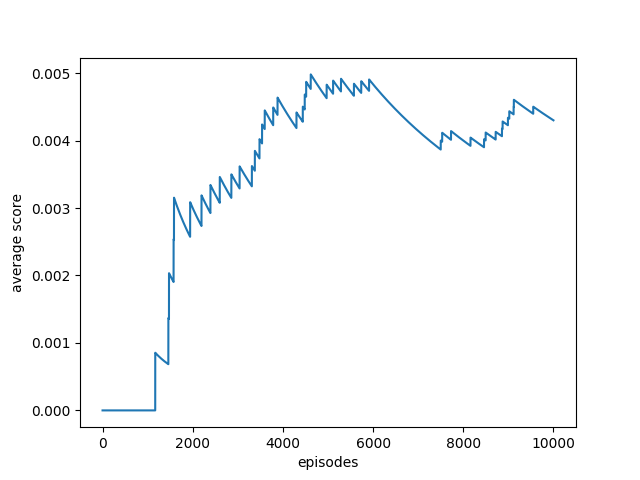
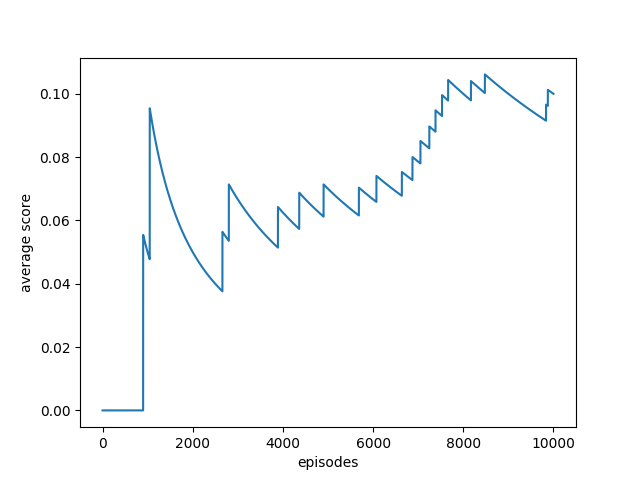
plots

diff --git a/q2.py b/q2.py
@@ -82,7 +82,7 @@ def learn_Q_QLearning(env, num_episodes=10000, gamma = 0.99, lr = 0.1, e = 0.2, 
 
 def main():
 	env = FrozenLakeEnv(is_slippery=False)
-	Q = learn_Q_QLearning(env, num_episodes = 10000, gamma = 0.99, lr = 0.3, e = 0.8)
+	Q = learn_Q_QLearning(env, num_episodes = 10000, gamma = 0.99, lr = 0.3, e = 0.85)
 	render_single_Q(env, Q)
 
 
